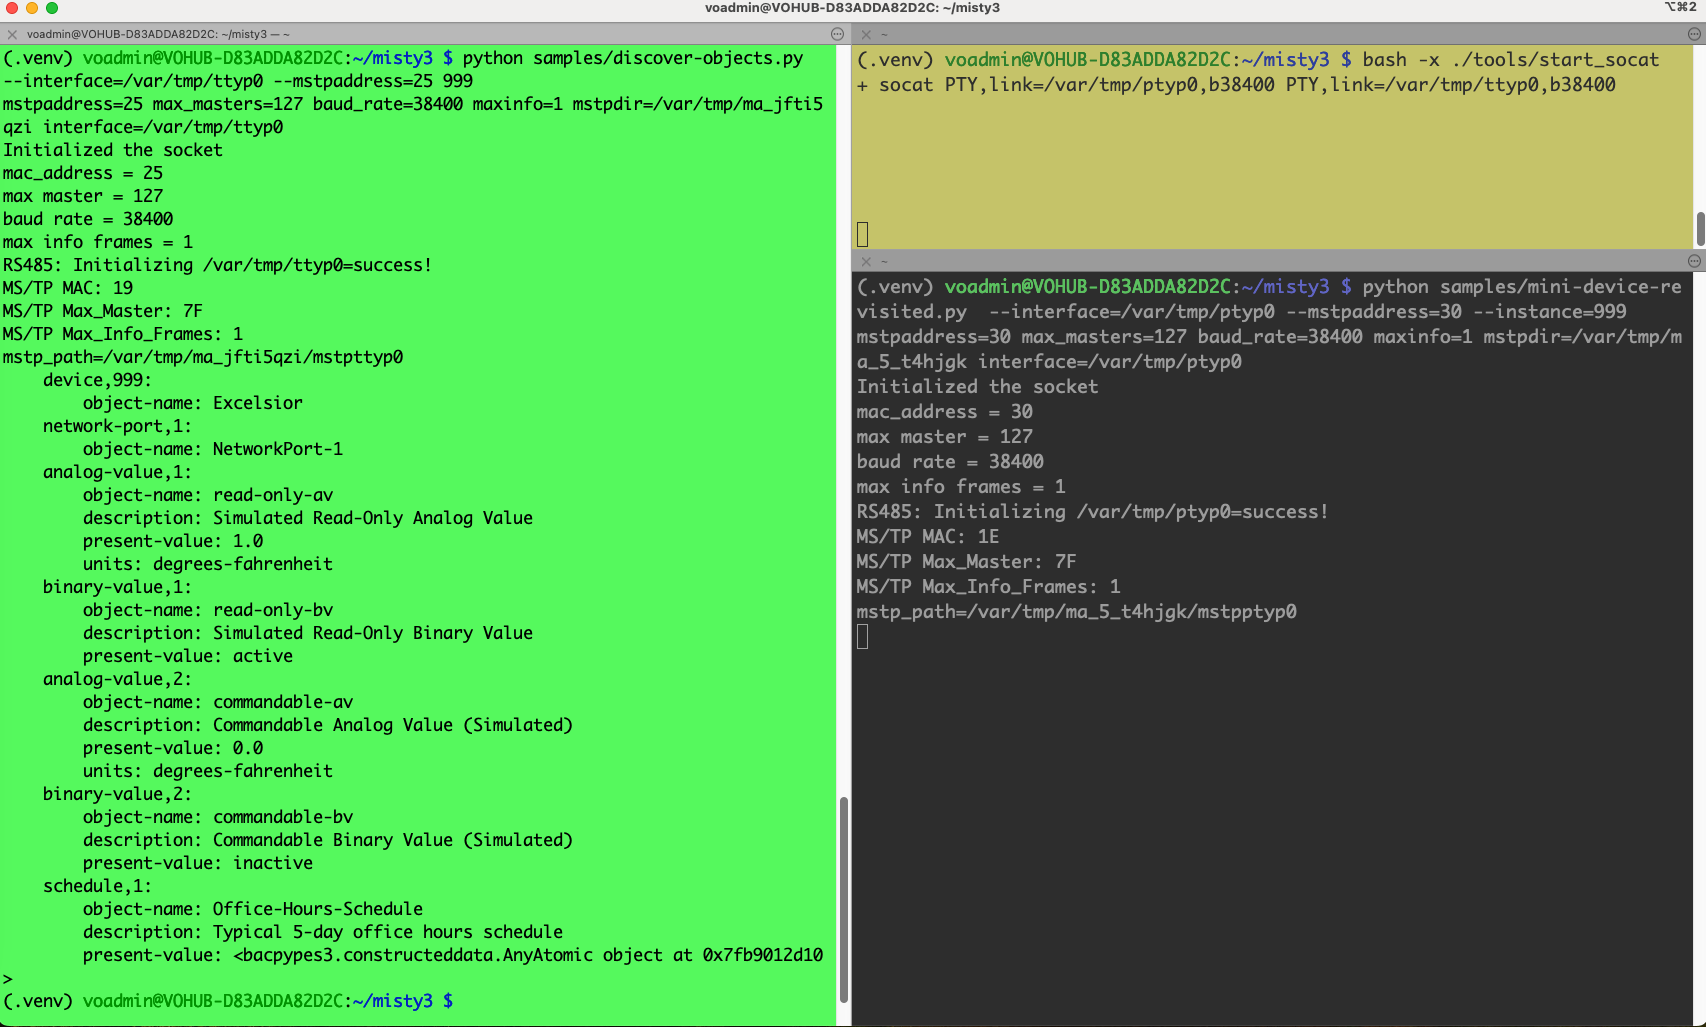
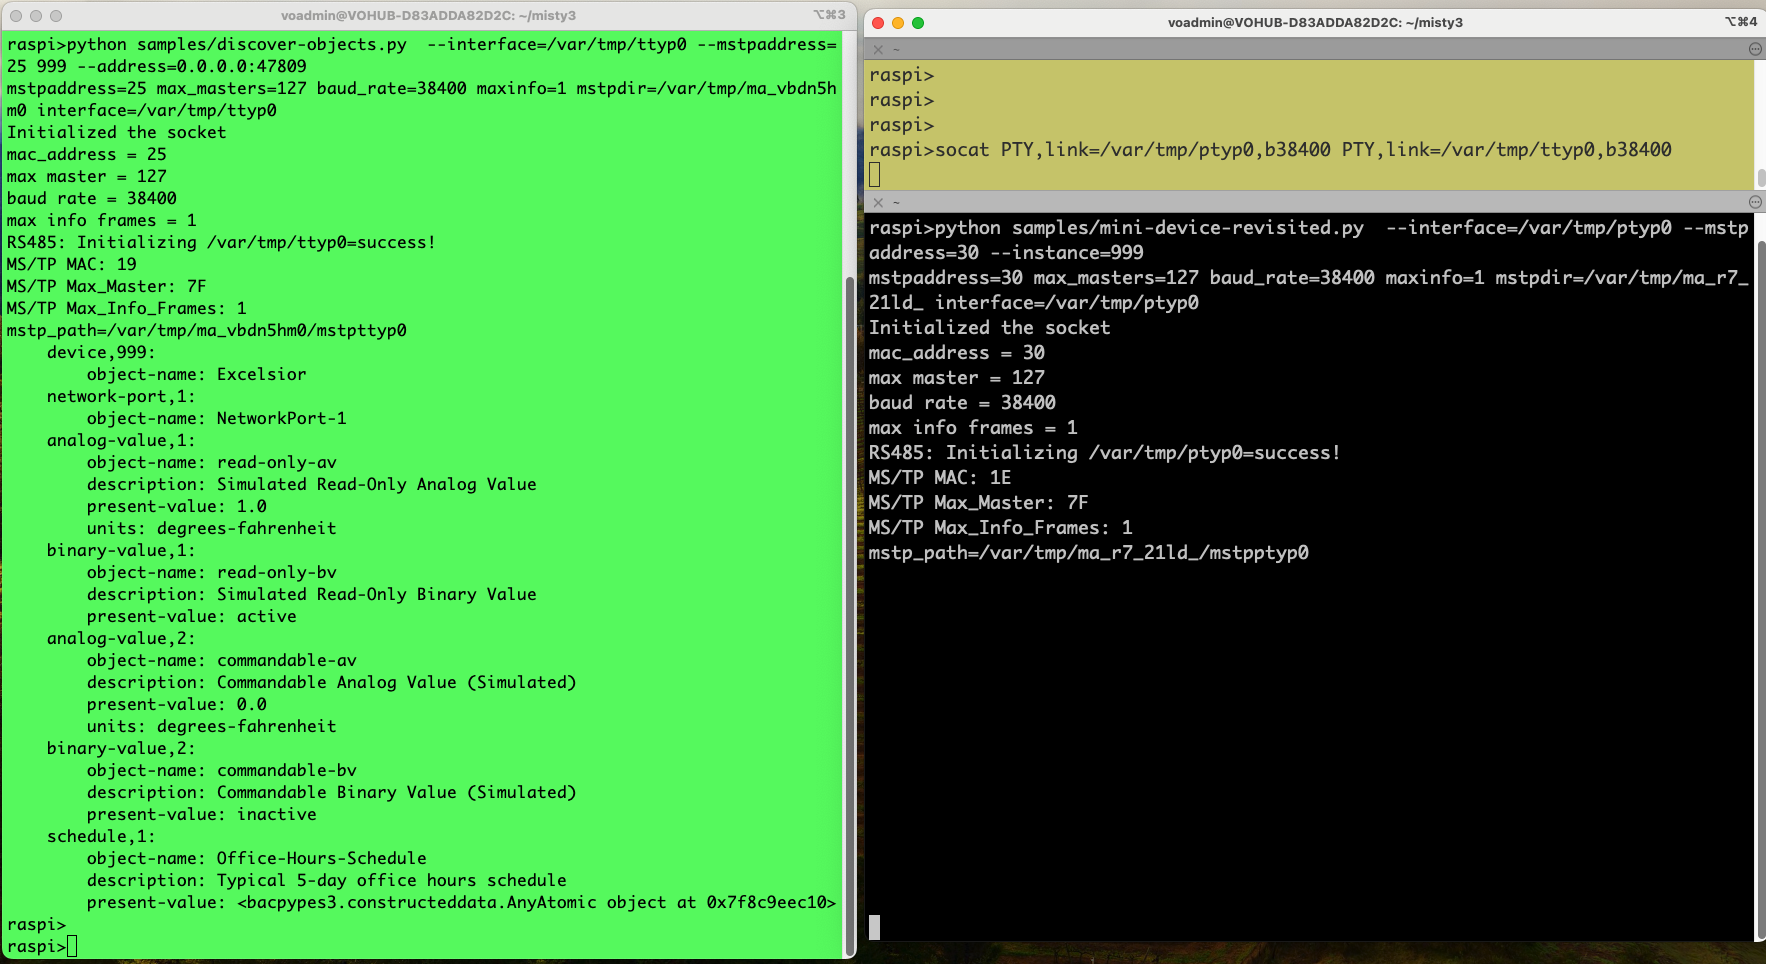
Debug messages (#2)
* Added support for --debug=misty3.mstplib.MSTPApplication
* Updated the README to use a modified command for the discover-objects.py
* Removed unused code

diff --git a/misty3/mstplib/__init__.py b/misty3/mstplib/__init__.py
@@ -137,12 +137,18 @@ class MSTPArgumentParser(SimpleArgumentParser):
         # now let the base class do its checks and env expansion
         super().expand_args(result_args)
 
-
+@bacpypes_debugging
 class MSTPApplication(Application):
     _mstp_global_inited = False
 
+    _debug: Callable[..., None]
+
     @classmethod
     def from_args(cls, args):
+
+        if _debug:
+            MSTPApplication._debug("args %s", args)
+
         app = super().from_args(args)
         app._post_init_mstp(args)
         return app
@@ -167,28 +173,17 @@ class MSTPApplication(Application):
 
         # patch them
         self._adapter.process_npdu = self._outbound_hook.__get__(self._adapter)
-        self._adapter.confirmation = self._inbound_hook.__get__(self._adapter)
 
     async def _outbound_hook(self, npdu):
         # self = adapter, but application available via self._app
         pdu = npdu.encode()
         raw = bytes(pdu.pduData)
 
-        # print("OUT:", raw.hex(sep=' '))
-
         # call application MSTP TX
         await self._app.send_mstp(raw, npdu)
 
         # forward to original
         # return await self._app._orig_out(npdu)
-
-    async def _inbound_hook(self, pdu):
-        raw = bytes(pdu.pduData)
-
-        # print("IN:", raw.hex(sep=' '))
-
-        # forward to the application for possible processing later
-        return await self._app._orig_in(pdu)
 
     async def send_mstp(self, raw: bytes, npdu):
         try:
@@ -208,10 +203,14 @@ class MSTPApplication(Application):
             # build MSS/TP payload: [destination MAC] + NPDU bytes
             payload = bytes([dst_mac]) + raw
 
-            # print(f"TX MSTP: dst_mac={dst_mac}, bytes={payload.hex(' ')}")
+            if _debug:
+                MSTPApplication._debug(
+                    "TX: dst_mac=%s: %s",
+                    dst_mac, payload.hex(sep=' ')
+                )
 
-            sent = self.socket.send(payload)
-            # print("SENT", sent)
+            self.socket.send(payload)
+
 
         except Exception as e:
             print("MSTP send error:", e)
@@ -334,6 +333,12 @@ class MSTPApplication(Application):
         # 2) Fill in raw data and source
         pdu.pduData = bytearray(raw_npdu)   # IMPORTANT: bytearray, not bytes
         pdu.pduSource = Address(src_mac)    # same style as old MSTPDirector
+
+        if _debug:
+            MSTPApplication._debug(
+                "RX:src_mac=%s:%s",
+                src_mac, data.hex(sep=' ')
+            )
 
         # 3) Inject into the original inbound path (same as UDP)
         await self._orig_in(pdu)

diff --git a/samples/discover-objects.py b/samples/discover-objects.py
@@ -102,8 +102,9 @@ async def main() -> None:
             _log.debug("app: %r", app)
 
         # look for the device
-        i_ams = await app.who_is(args.device_identifier, args.device_identifier)
+        i_ams = await app.who_is(args.device_identifier, args.device_identifier, timeout=10)
         if not i_ams:
+            print("NO Devices found")
             return
 
         i_am = i_ams[0]

diff --git a/README.md b/README.md
@@ -74,23 +74,34 @@ The **socat** utility is useful  to test the MSTP applications without having  H
 
 The following is the procedure for using *socat* to test the interaction of BACnet server and BACnet client.
 
-(1) Execute the socat utility to create two connected virtual serial ports ptyp0 and ttyp0 in a terminal window
+(1) Execute the socat utility to create two connected virtual serial ports ptyp0 and ttyp0 in a terminal window. On **Linux** , use the following command
 ```bash
 socat PTY,link=/var/tmp/ptyp0,b38400 PTY,link=/var/tmp/ttyp0,b38400
 ```
+on **Macbook** use the following command
+```bash
+socat PTY,link=/var/tmp/ptyp0,rawer PTY,link=/var/tmp/ttyp0,rawer
+```
+
 (2) On a new terminal window , start the mini-device on ptyp0.
 ```bash
 python samples/mini-device-revisited.py  --interface=/var/tmp/ptyp0 --mstpaddress=30 --instance=999
 ```
-(3) On a new terminal window, start the discover-objects on ttyp0.
+Add the debug option `--debug=misty3.mstplib.MSTPApplication` for additional debug information
+
+(3) On a new terminal window, start the discover-objects on ttyp0. Specify a different port 47809 so that we can run 2 bacpypes3 applications on the same machine
 ```bash
-python samples/discover-objects.py  --interface=/var/tmp/ttyp0 --mstpaddress=25 999
+python samples/discover-objects.py  --interface=/var/tmp/ttyp0 --mstpaddress=25 999 --address=0.0.0.0:47809
 ```
+Add the debug option `--debug=misty3.mstplib.MSTPApplication` for additional debug information
 
 The following image shows a sample interaction between the mini-device, and discover-objects program (running on the same machine using the ports created by socat utility
 
 ![misty3 with socat](screenshots/misty3_with_socat.png)
 
+The following image shows the debug information displayed when the `--debug=misty3.mstplib.MSTPApplication` is passed to the discover-objects.py invocation. The transmitted BACnet packets (TX) and the received BACnet packets (RX) are shown
+
+![misty3 with debug](screenshots/misty3_with_debug.png)
 
 # Porting BACpypes3 IP Apps to MSTP
 
